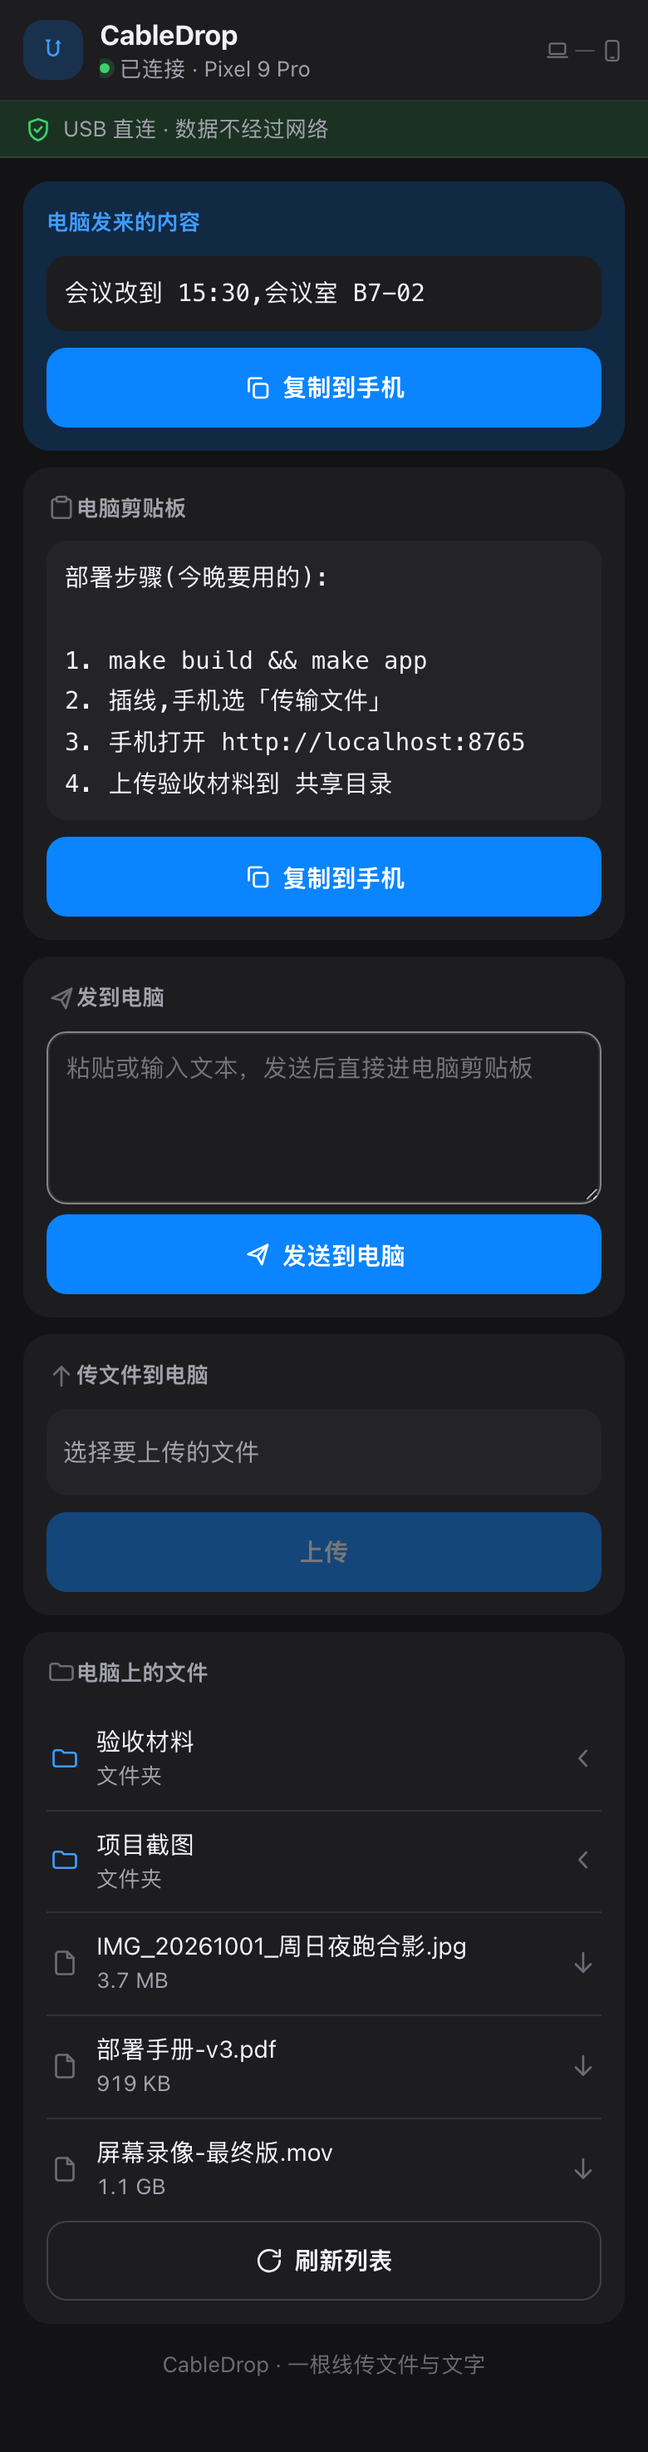
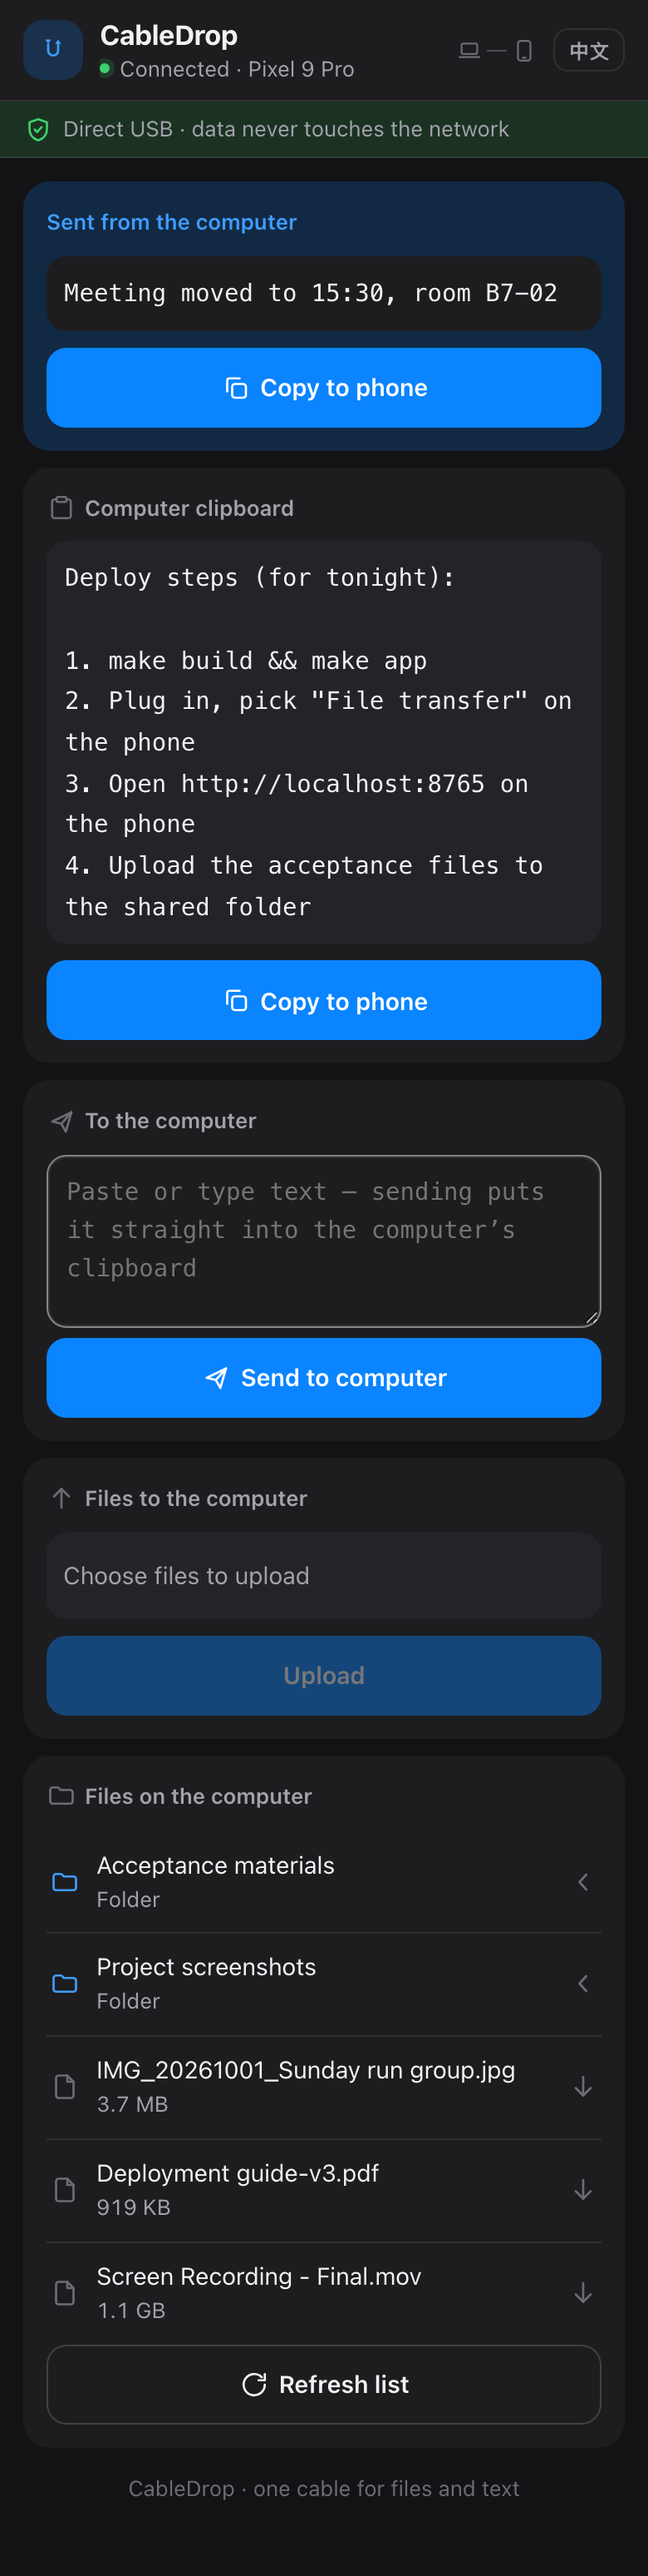
docs(screenshots): capture both languages, not just the host machine's
The pages ship bilingual but the screenshots did not: shots.py left the
language to the host, and this Mac is zh_CN, so every shot came back Chinese —
including the ones the English README and the English landing page display.
English copy over a Chinese UI is the kind of thing you stop seeing after a
while, which is why it survived.

The locale is now forced through the DevTools override, with an assertion that
the page really rendered in the language asked for; a silent mismatch is the
one failure that would put the wrong screenshot back. English keeps the
docs/*.png names so README.md and older links keep working; other languages go
in a subdirectory.

The demo fixture had to become language-aware too, because it is where the
sample data comes from — an English page listing 屏幕录像-最终版.mov looks like
a bug rather than a demo. Two things there were wrong: the locale override does
not reach Accept-Language on the page's own fetches (so the UI switched and the
data did not), and the language-aware backend was being built once at handler
construction, so a per-request choice never arrived.

diff --git a/internal/serve/devserver_test.go b/internal/serve/devserver_test.go
@@ -5,6 +5,7 @@ import (
 	"net"
 	"net/http"
 	"os"
+	"strings"
 	"testing"
 	"time"
 
@@ -63,7 +64,7 @@ func TestScreenshotServer(t *testing.T) {
 		t.Fatal(err)
 	}
 
-	srv := &http.Server{Handler: demoBackend{a}.handler()}
+	srv := &http.Server{Handler: demoBackend{App: a}.handler()}
 	go func() {
 		_ = srv.Serve(ln)
 	}()
@@ -79,15 +80,41 @@ func TestScreenshotServer(t *testing.T) {
 // render comes back populated, so screenshots look like a working session.
 type demoBackend struct {
 	*app.App
+	lang string
 }
 
-var demoTransfers = []model.Transfer{
-	{ID: "t3", Name: "屏幕录像-最终版.mov", Kind: "push", State: "running",
-		Indeterminate: true, StartedAt: time.Now().UnixMilli() - 41_000, At: 3, Size: 1_204_338_001},
-	{ID: "t2", Name: "项目验收报告-终稿.pdf", Kind: "pull", State: "done",
-		Detail: "从手机取回 · 共享目录", At: time.Now().Unix() - 120, Size: 5_872_450},
-	{ID: "t1", Name: "IMG_20261001_周日夜跑合影.jpg", Kind: "push", State: "done",
-		Detail: "发送到手机 · Download", At: time.Now().Unix() - 25, Size: 3_842_150},
+// The fixture is language-aware because it is where the screenshots come from.
+// The pages ship bilingual, and an English page whose file list reads
+// 屏幕录像-最终版.mov looks like a bug rather than a demo. The capture script
+// asks for a language with ?lang=; the pages themselves still pick theirs from
+// the browser, exactly as they do in production.
+func (d demoBackend) withLang(lang string) demoBackend {
+	d.lang = lang
+	return d
+}
+
+func (d demoBackend) zh() bool { return d.lang == "zh" }
+
+func demoTransfers(lang string) []model.Transfer {
+	now := time.Now()
+	if lang == "zh" {
+		return []model.Transfer{
+			{ID: "t3", Name: "屏幕录像-最终版.mov", Kind: "push", State: "running",
+				Indeterminate: true, StartedAt: now.UnixMilli() - 41_000, At: 3, Size: 1_204_338_001},
+			{ID: "t2", Name: "项目验收报告-终稿.pdf", Kind: "pull", State: "done",
+				Detail: "从手机取回 · 共享目录", At: now.Unix() - 120, Size: 5_872_450},
+			{ID: "t1", Name: "IMG_20261001_周日夜跑合影.jpg", Kind: "push", State: "done",
+				Detail: "发送到手机 · Download", At: now.Unix() - 25, Size: 3_842_150},
+		}
+	}
+	return []model.Transfer{
+		{ID: "t3", Name: "Screen Recording - Final.mov", Kind: "push", State: "running",
+			Indeterminate: true, StartedAt: now.UnixMilli() - 41_000, At: 3, Size: 1_204_338_001},
+		{ID: "t2", Name: "Acceptance Report - Final.pdf", Kind: "pull", State: "done",
+			Detail: "Retrieved from phone · shared folder", At: now.Unix() - 120, Size: 5_872_450},
+		{ID: "t1", Name: "IMG_20261001_Sunday run group.jpg", Kind: "push", State: "done",
+			Detail: "Sent to phone · Download", At: now.Unix() - 25, Size: 3_842_150},
+	}
 }
 
 func (d demoBackend) State() model.State {
@@ -102,30 +129,70 @@ func (d demoBackend) State() model.State {
 	st.Port = 8765
 	st.PhoneURL = "http://localhost:8765"
 	st.Native = true
-	st.Transfers = demoTransfers
+	st.Transfers = demoTransfers(d.lang)
 	st.Error = ""
 	return st
 }
 
 func (d demoBackend) ClipboardText() string {
-	return `部署步骤(今晚要用的):
+	if d.zh() {
+		return `部署步骤(今晚要用的):
 
 1. make build && make app
 2. 插线,手机选「传输文件」
 3. 手机打开 http://localhost:8765
 4. 上传验收材料到 共享目录`
+	}
+	return `Deploy steps (for tonight):
+
+1. make build && make app
+2. Plug in, pick "File transfer" on the phone
+3. Open http://localhost:8765 on the phone
+4. Upload the acceptance files to the shared folder`
 }
 
 func (d demoBackend) Note() (string, int64) {
-	return "会议改到 15:30,会议室 B7-02", time.Now().Unix()
+	if d.zh() {
+		return "会议改到 15:30,会议室 B7-02", time.Now().Unix()
+	}
+	return "Meeting moved to 15:30, room B7-02", time.Now().Unix()
 }
 
-var demoEntries = []model.Entry{
-	{Name: "验收材料", Path: "/Users/demo/CableDrop/验收材料", Dir: true, ModTime: time.Now().Unix() - 3600},
-	{Name: "项目截图", Path: "/Users/demo/CableDrop/项目截图", Dir: true, ModTime: time.Now().Unix() - 7200},
-	{Name: "IMG_20261001_周日夜跑合影.jpg", Path: "/Users/demo/CableDrop/IMG.jpg", Size: 3_842_150, ModTime: time.Now().Unix() - 90},
-	{Name: "部署手册-v3.pdf", Path: "/Users/demo/CableDrop/部署手册-v3.pdf", Size: 941_002, ModTime: time.Now().Unix() - 400},
-	{Name: "屏幕录像-最终版.mov", Path: "/Users/demo/CableDrop/屏幕录像-最终版.mov", Size: 1_204_338_001, ModTime: time.Now().Unix() - 60},
+func demoEntries(lang string) []model.Entry {
+	now := time.Now().Unix()
+	if lang == "zh" {
+		return []model.Entry{
+			{Name: "验收材料", Path: "/Users/demo/CableDrop/验收材料", Dir: true, ModTime: now - 3600},
+			{Name: "项目截图", Path: "/Users/demo/CableDrop/项目截图", Dir: true, ModTime: now - 7200},
+			{Name: "IMG_20261001_周日夜跑合影.jpg", Path: "/Users/demo/CableDrop/IMG.jpg", Size: 3_842_150, ModTime: now - 90},
+			{Name: "部署手册-v3.pdf", Path: "/Users/demo/CableDrop/部署手册-v3.pdf", Size: 941_002, ModTime: now - 400},
+			{Name: "屏幕录像-最终版.mov", Path: "/Users/demo/CableDrop/屏幕录像-最终版.mov", Size: 1_204_338_001, ModTime: now - 60},
+		}
+	}
+	return []model.Entry{
+		{Name: "Acceptance materials", Path: "/Users/demo/CableDrop/acceptance", Dir: true, ModTime: now - 3600},
+		{Name: "Project screenshots", Path: "/Users/demo/CableDrop/screenshots", Dir: true, ModTime: now - 7200},
+		{Name: "IMG_20261001_Sunday run group.jpg", Path: "/Users/demo/CableDrop/IMG.jpg", Size: 3_842_150, ModTime: now - 90},
+		{Name: "Deployment guide-v3.pdf", Path: "/Users/demo/CableDrop/deployment-guide-v3.pdf", Size: 941_002, ModTime: now - 400},
+		{Name: "Screen Recording - Final.mov", Path: "/Users/demo/CableDrop/screen-recording-final.mov", Size: 1_204_338_001, ModTime: now - 60},
+	}
+}
+
+func demoDirs(lang string) []model.Entry {
+	if lang == "zh" {
+		return []model.Entry{
+			{Name: "Download", Path: "/sdcard/Download", Dir: true},
+			{Name: "相机", Path: "/sdcard/DCIM/Camera", Dir: true},
+			{Name: "文档", Path: "/sdcard/Documents", Dir: true},
+			{Name: "根目录", Path: "/sdcard", Dir: true},
+		}
+	}
+	return []model.Entry{
+		{Name: "Download", Path: "/sdcard/Download", Dir: true},
+		{Name: "Camera", Path: "/sdcard/DCIM/Camera", Dir: true},
+		{Name: "Documents", Path: "/sdcard/Documents", Dir: true},
+		{Name: "Root", Path: "/sdcard", Dir: true},
+	}
 }
 
 func (d demoBackend) ServeDir() string { return "/Users/demo/CableDrop" }
@@ -139,25 +206,45 @@ func writeDemoJSON(w http.ResponseWriter, v any) {
 // WrapHTTP lets the demo overlay ride on the real handler without reaching
 // into unexported plumbing.
 func (d demoBackend) handler() http.Handler {
-	next := serve.NewHandler(d, true)
 	return http.HandlerFunc(func(w http.ResponseWriter, r *http.Request) {
+		// The language-aware backend has to be built per request: /api/state,
+		// /api/clipboard and /api/note all answer from it, and the handler that
+		// serves them is otherwise fixed at construction time — so a language
+		// chosen per request never reached the sample data.
+		lang := demoLang(r)
+		next := serve.NewHandler(d.withLang(lang), true)
 		switch r.URL.Path {
 		case "/api/shared":
 			writeDemoJSON(w, map[string]any{
-				"root": d.ServeDir(), "path": d.ServeDir(), "sub": "", "entries": demoEntries,
+				"root": d.ServeDir(), "path": d.ServeDir(), "sub": "", "entries": demoEntries(lang),
 			})
 			return
 		case "/api/device/dirs":
-			writeDemoJSON(w, map[string]any{"dirs": []model.Entry{
-				{Name: "Download", Path: "/sdcard/Download", Dir: true},
-				{Name: "相机", Path: "/sdcard/DCIM/Camera", Dir: true},
-				{Name: "文档", Path: "/sdcard/Documents", Dir: true},
-				{Name: "根目录", Path: "/sdcard", Dir: true},
-			}})
+			writeDemoJSON(w, map[string]any{"dirs": demoDirs(lang)})
 			return
 		}
 		next.ServeHTTP(w, r)
 	})
+}
+
+// demoLang picks the language for the fixture's sample data. The page's own
+// fetches carry no query string, so Accept-Language is what actually decides
+// it — the capture script forces that header, which is why an English
+// screenshot no longer comes back listing 屏幕录像-最终版.mov. ?lang= stays as
+// an explicit override, so the fixture can be driven by hand with curl.
+func demoLang(r *http.Request) string {
+	if q := r.URL.Query().Get("lang"); q != "" {
+		return q
+	}
+	if c, err := r.Cookie("cabledrop.demo.lang"); err == nil && c.Value != "" {
+		return c.Value
+	}
+	for _, tag := range strings.Split(r.Header.Get("Accept-Language"), ",") {
+		if strings.HasPrefix(strings.ToLower(strings.TrimSpace(tag)), "zh") {
+			return "zh"
+		}
+	}
+	return "en"
 }
 
 var stopDevServer = make(chan struct{})

diff --git a/scripts/shots.py b/scripts/shots.py
@@ -21,6 +21,10 @@ a viewport the layout was actually designed for.
 
 Needs Chrome and nothing else: the DevTools Protocol client below is stdlib.
 
+Each page is shot in both languages. The language is forced through the
+DevTools locale override rather than left to the machine's — a run on a
+Chinese Mac and a run on an English one have to produce the same files.
+
 Run the demo server first:
     CABLEDROP_SHOTS=1 go test -run TestScreenshotServer -timeout 1h ./internal/serve/
 """
@@ -73,6 +77,21 @@ PAGES = {
     "panel": ("/panel", 500, 740, False),
     "phone": ("/", 390, 844, True),
 }
+
+# The pages ship bilingual, so the screenshots have to as well — a page that
+# switches language under a screenshot frozen in the other one is a lie. The
+# locale comes from the DevTools override below, not from the host machine:
+# this Mac is zh_CN, and a run here used to bake Chinese into the English
+# README. English keeps the docs/*.png names (README.md, the landing page and
+# older links all point at them); the other languages live in a subdirectory.
+LANGS = {
+    "en": ("en-US", ""),
+    "zh": ("zh-CN", "zh/"),
+}
+
+# Both pages remember an explicit language choice under this key (see
+# site/i18n.js and internal/serve/assets/js/i18n.js — same key, same meaning).
+STORE_KEY = "cabledrop.lang"
 
 # Release the page's own scroll plumbing so the document can grow to the real
 # content height.
@@ -264,12 +283,36 @@ def start_chrome(port: int) -> subprocess.Popen:
 
 
 def capture(cdp: CDP, url: str, w: int, h: int, out: pathlib.Path, dark: bool,
-            taller: bool) -> None:
+            taller: bool, locale: str, storage_key: str) -> None:
+    # Force the locale before navigating. The override only takes effect on the
+    # next document, which is why it is set here and not after the navigate;
+    # and it changes navigator.languages without touching navigator.language,
+    # which is why the page's own storage key is primed as well.
+    cdp("Emulation.setLocaleOverride", locale=locale)
+    # The locale override does not reach Accept-Language on the page's own
+    # fetches — it re-renders the UI in the right language while the API data
+    # stays whatever the server's default is. Setting the header explicitly is
+    # what makes the demo fixture answer in the language the shot is taken in.
+    cdp("Network.setExtraHTTPHeaders",
+        headers={"Accept-Language": f"{locale},en;q=0.5"})
+    # Belt and braces: the header is what the fixture reads, but it is also the
+    # part that silently stops arriving across CDP versions, so a cookie says
+    # the same thing a second way.
+    cdp("Network.setCookie", name="cabledrop.demo.lang", value=locale[:2],
+        domain="127.0.0.1", path="/")
     cdp("Emulation.setDeviceMetricsOverride",
         width=w, height=h, deviceScaleFactor=SCALE, mobile=w < 500)
     cdp("Emulation.setEmulatedMedia", media="",
         features=[{"name": "prefers-color-scheme",
                    "value": "dark" if dark else "light"}])
+    # Pin the language the way a returning visitor would have it. The override
+    # alone is not enough for a page that also reads navigator.language, and a
+    # screenshot that silently came back in the wrong language is the failure
+    # this whole function exists to avoid.
+    cdp("Page.navigate", url=url)
+    time.sleep(0.4)
+    cdp.js(f"try {{ localStorage.setItem({storage_key!r}, {locale[:2]!r}) }} "
+           f"catch (e) {{}}")
     cdp("Page.navigate", url=url)
     time.sleep(2.5)                                    # load + first API poll
     cdp("Runtime.evaluate", expression="new Promise(r => setTimeout(r, 1200))",
@@ -283,6 +326,7 @@ def capture(cdp: CDP, url: str, w: int, h: int, out: pathlib.Path, dark: bool,
     time.sleep(0.5)
     where = json.loads(cdp.js(
         "JSON.stringify({href: location.href, title: document.title,"
+        " lang: document.documentElement.lang,"
         " cards: document.querySelectorAll('.p-card').length,"
         " scrolls: [...document.querySelectorAll('*')]"
         ".filter(e => ['auto','scroll'].includes(getComputedStyle(e).overflowY)).length})"))
@@ -290,6 +334,11 @@ def capture(cdp: CDP, url: str, w: int, h: int, out: pathlib.Path, dark: bool,
         raise RuntimeError(
             f"the page never loaded: landed on {where['href']} ({where['title']}). "
             f"Is the demo server up on {BASE}?")
+    if not where["lang"].lower().startswith(locale[:2]):
+        raise RuntimeError(
+            f"asked for {locale} but the page rendered in {where['lang']!r} — "
+            f"the language override did not take, so {out.name} would be a "
+            f"screenshot in the wrong language")
     cw, ch = json.loads(cdp.js(MEASURE))
     if taller and ch <= h:
         raise RuntimeError(
@@ -314,10 +363,24 @@ def main() -> int:
         ws = WS(page["webSocketDebuggerUrl"])
         cdp = CDP(ws)
         cdp("Page.enable")
-        for name, (path, w, h, taller) in PAGES.items():
-            for theme, dark in (("light", False), ("dark", True)):
-                capture(cdp, BASE + path, w, h, OUT / f"{name}-{theme}.png", dark,
-                        taller)
+        # Network.enable is not optional: setExtraHTTPHeaders is silently
+        # dropped without it, and the symptom is a screenshot whose UI is in one
+        # language and whose data is in the other.
+        cdp("Network.enable")
+        for lang, (locale, sub) in LANGS.items():
+            # English writes docs/*.png; every other language writes
+            # docs/<lang>/*.png, so the files the READMEs already point at keep
+            # their names.
+            out_dir = OUT / sub if sub else OUT
+            out_dir.mkdir(parents=True, exist_ok=True)
+            for name, (path, w, h, taller) in PAGES.items():
+                for theme, dark in (("light", False), ("dark", True)):
+                    # The fixture's sample data follows the same Accept-Language
+                    # the locale override forces, so an English page never comes
+                    # back listing 屏幕录像-最终版.mov. No query string needed.
+                    capture(cdp, BASE + path, w, h,
+                            out_dir / f"{name}-{theme}.png",
+                            dark, taller, locale, STORE_KEY)
         ws.close()
     finally:
         proc.terminate()
